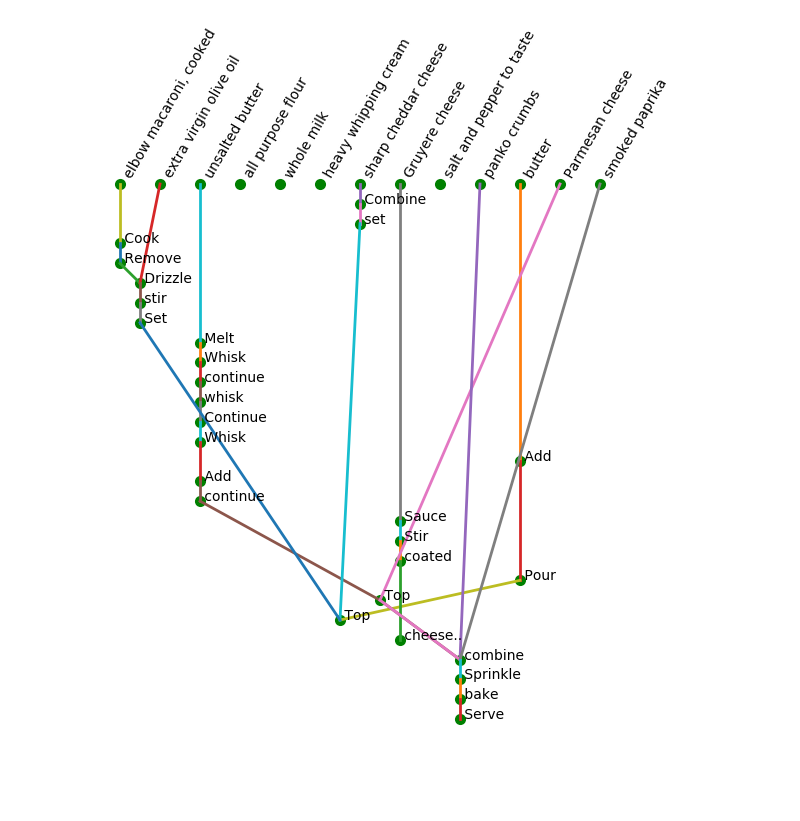
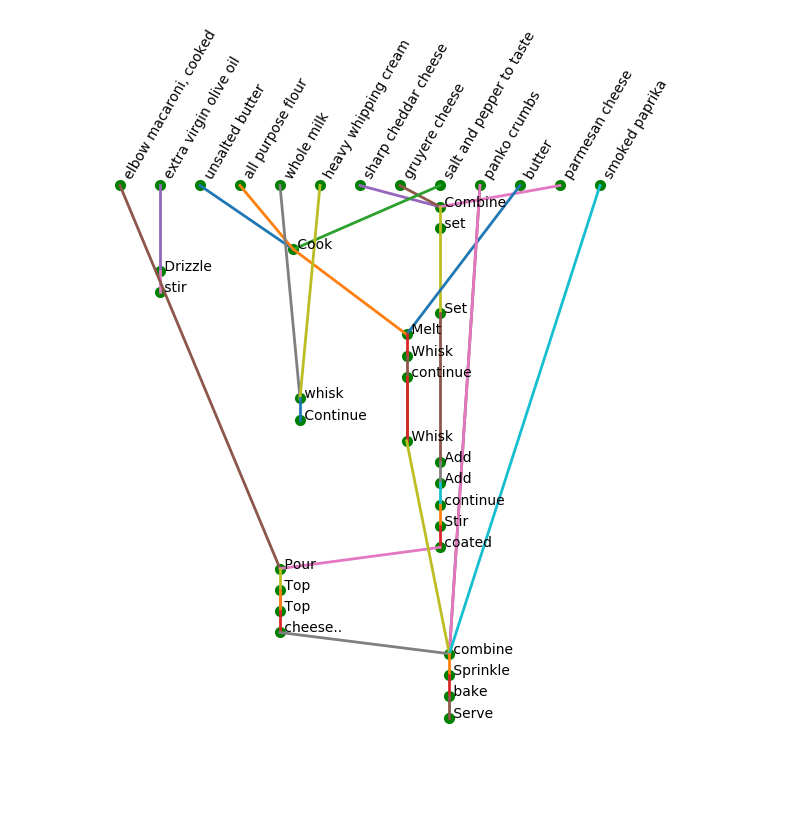
fixed bug causing exponential time; handle plurals

diff --git a/recipe.py b/recipe.py
@@ -7,6 +7,8 @@ from spacy import displacy
 
 from container import Container
 from node import Node
+import spacy_helpers as sh
+
 
 
 class Recipe:
@@ -78,7 +80,7 @@ class Recipe:
         return graph
 
 
-    def parse_steps(self, sent: spacy.Span):
+    def parse_steps(self, sent: spacy.tokens.Span):
         """
         Attempt to add a node joining ingredients for each recipe step
 
@@ -90,15 +92,17 @@ class Recipe:
         
         # Some steps have multiple clauses which should be treated as separate steps
         # Recursively parse any trailing clauses
-        head, tail = self.split_conjuncts(sent)
+        head, tail = sh.split_conjuncts(sent)
+
+        #displacy.serve(head)
 
         # Most steps in recipes are commands
         # Ideally spacy will have identified the instruction verb as the sentence root
         if head.root.pos_ == 'VERB':
 
             action = head.root
-            dobjs = self.get_direct_objects(head.root)
-            ingredient_nodes, containers = self.identify_objects(dobjs)
+            nouns = sh.get_all_nouns(sent)
+            ingredient_nodes, containers = self.identify_objects(nouns)
      
             if ingredient_nodes:
                 node = Node(action, ingredient_nodes)
@@ -215,53 +219,75 @@ class Recipe:
         plt.show()
 
 
-    
 
-    def identify_objects(self, dobjs):
+    def best_matching_node(self, token):
 
-        if len(dobjs) == 0:
-            return [], []
+        scores = [node.max_base_similarity(token) for node in self.graph]
+        if max(scores) >= 0.7:
+            # return the node with the highest score
+            match = self.graph[np.argmax(np.array(scores))]
+            print(token, 'matches', match.ingredients)
         else:
-            objs = [d for d in dobjs]
-            for d in dobjs:
-                objs += self.get_all_conjuncts(d)
+            # if all the scores are low, the token likely isn't an ingredient
+            print(token, 'matches nothing')
+            return None
+
+
+    def identify_objects(self, objs):
 
         ings, conts = [], []
         for obj in objs:
-            identity = self.identify(obj)
-            if isinstance(identity, Node):
-                ings.append(identity)
-            elif isinstance(identity, Container):
-                conts.append(identity)
+            identities = self.identify(obj)
+            for identity in identities:
+                if isinstance(identity, Node):
+                    ings.append(identity)
+                elif isinstance(identity, Container):
+                    conts.append(identity)
 
         return ings, conts
 
 
-    def identify(self, token):
+    def identify(self, token) -> list:
+        """
+        Return the Node(s) to which the token refers
 
-        if self.is_kitchen_equipment(token):
+        Parameters:
+            token: spacy Token representing the word to ID
+        Returns:
+            list of Nodes that the token may refer to
+        """
+        print(token.text)
+        print('lemma:', token.lemma_)
+        print([t.text for t in token.subtree])
+        keyword = token.lemma_
+        if self.is_kitchen_equipment(keyword):
             for container in self.containers:
-                if token == container.name:
-                    return container
+                if keyword == container.name:
+                    return [container]
             else:
-                container = Container(token)
+                container = Container(keyword)
                 self.add_new_container(container)
-                return container
+                return [container]
 
         else:
+            matches = []
             for n in self.graph:
                 for i in n.ingredients:
-                    if i.has_substring(token.text):
-                        return n
+                    if i.has_words(keyword):
+                        matches.append(n)
+                        break
+            if matches:
+                return matches
 
-            return max(self.graph, key=lambda node: node.max_base_similarity(token))
+            return [self.best_matching_node(token)] or []
+
 
     def add_new_container(self, container: Container):
         self.containers.append(container)
 
-    def is_kitchen_equipment(self, token):
+    def is_kitchen_equipment(self, word: str):
         kitchen_equipment = ['oven', 'pan', 'pot', 'bowl', 'dish', 'saucepan']
-        if token.text in kitchen_equipment:
+        if word in kitchen_equipment:
             return True
         return False
 

diff --git a/spacy_helpers.py b/spacy_helpers.py
@@ -1,7 +1,8 @@
+from spacy.tokens import Span, Token
 #
 # Some helper functions that operate on spacy objects
 
-def get_all_conjuncts(token: spacy.Token) -> list:
+def get_all_conjuncts(token: Token) -> list:
         """
         Return all conjuncts of the token (words connected to it by conjunctions)
 
@@ -18,7 +19,7 @@ def get_all_conjuncts(token: spacy.Token) -> list:
         return conjs
 
 
-def get_shallow_conjuncts(token: spacy.Token) -> list:
+def get_shallow_conjuncts(token: Token) -> list:
     """
     Return all immediate child conjuncts of the token.
     This is different from the token.conjuncts attribute because this
@@ -33,7 +34,7 @@ def get_shallow_conjuncts(token: spacy.Token) -> list:
     return [child for child in token.children if child.dep_ == 'conj']
 
 
-def get_objects(token):
+def get_objects(token: Token) -> list:
     
     head, tail = split_conjuncts(token)
     objects = [head]
@@ -46,7 +47,7 @@ def get_objects(token):
     return objects
 
 
-def split_conjuncts(span):
+def split_conjuncts(span: Span):
     # Get the first conjunct
     conjs = get_shallow_conjuncts(span.root)
 
@@ -67,14 +68,57 @@ def split_conjuncts(span):
         return span, None
 
 
-def get_direct_objects(token: spacy.Token) -> list:
+def get_objects(token: Token) -> list:
     """
-    Return all direct objects of the token.
+    Return all objects of the token.
 
     Parameters:
         token: spacy Token (word)
     Returns:
         list of spacy Tokens
     """
-    return [child for child in token.children if child.dep_ == 'dobj']
+    # get all immediate direct objects of the token
+    dobjs = [child for child in token.children if child.dep_ == 'dobj']
+    if len(dobjs) == 0:
+        return [], []
+    else:
+        objs = [d for d in dobjs]
+        for d in dobjs:
+            objs += self.get_all_conjuncts(d)
+
+
+def get_top_noun(span: Span):
+    """
+    Return the noun that is highest in the span syntax
+
+    Parameters:
+        span: spacy.Span which may contain a noun
+    Returns:
+        spacy Token object
+    """
+
+    # search the phrase syntax breadth-first
+    queue = [span.root]
+    while queue:
+        current = queue.pop(0)
+        # may be a noun or proper noun
+        if current.pos_ in ['NOUN', 'PROPN']:
+            return current
+        for child in current.children:
+            queue.append(child)
+
+    # there might not be a noun
+    return None
+
+def get_all_nouns(span: Span):
+    """
+    Return a list of all nouns in the span
+
+    Parameters:
+        span: spacy.Span which may contain a noun
+    Returns:
+        spacy Token object
+    """
+    return [token for token in span if token.pos_ in ['NOUN', 'PROPN']]
+
 

diff --git a/ingredient.py b/ingredient.py
@@ -129,13 +129,13 @@ class Ingredient:
         return quantity
 
 
-    def has_substring(self, substring):
+    def has_words(self, words: str):
         """
         Return True if self.name contains the words in substring (may be separated)
 
         e.g. the substring 'green pepper' matches the name 'green bell pepper'
         """
-        words = '.*'.join(substring.split(' '))
+        words = '.*'.join(words.split(' '))
         pattern = re.compile(words)
         match = re.search(pattern, self.name)
         if match:
